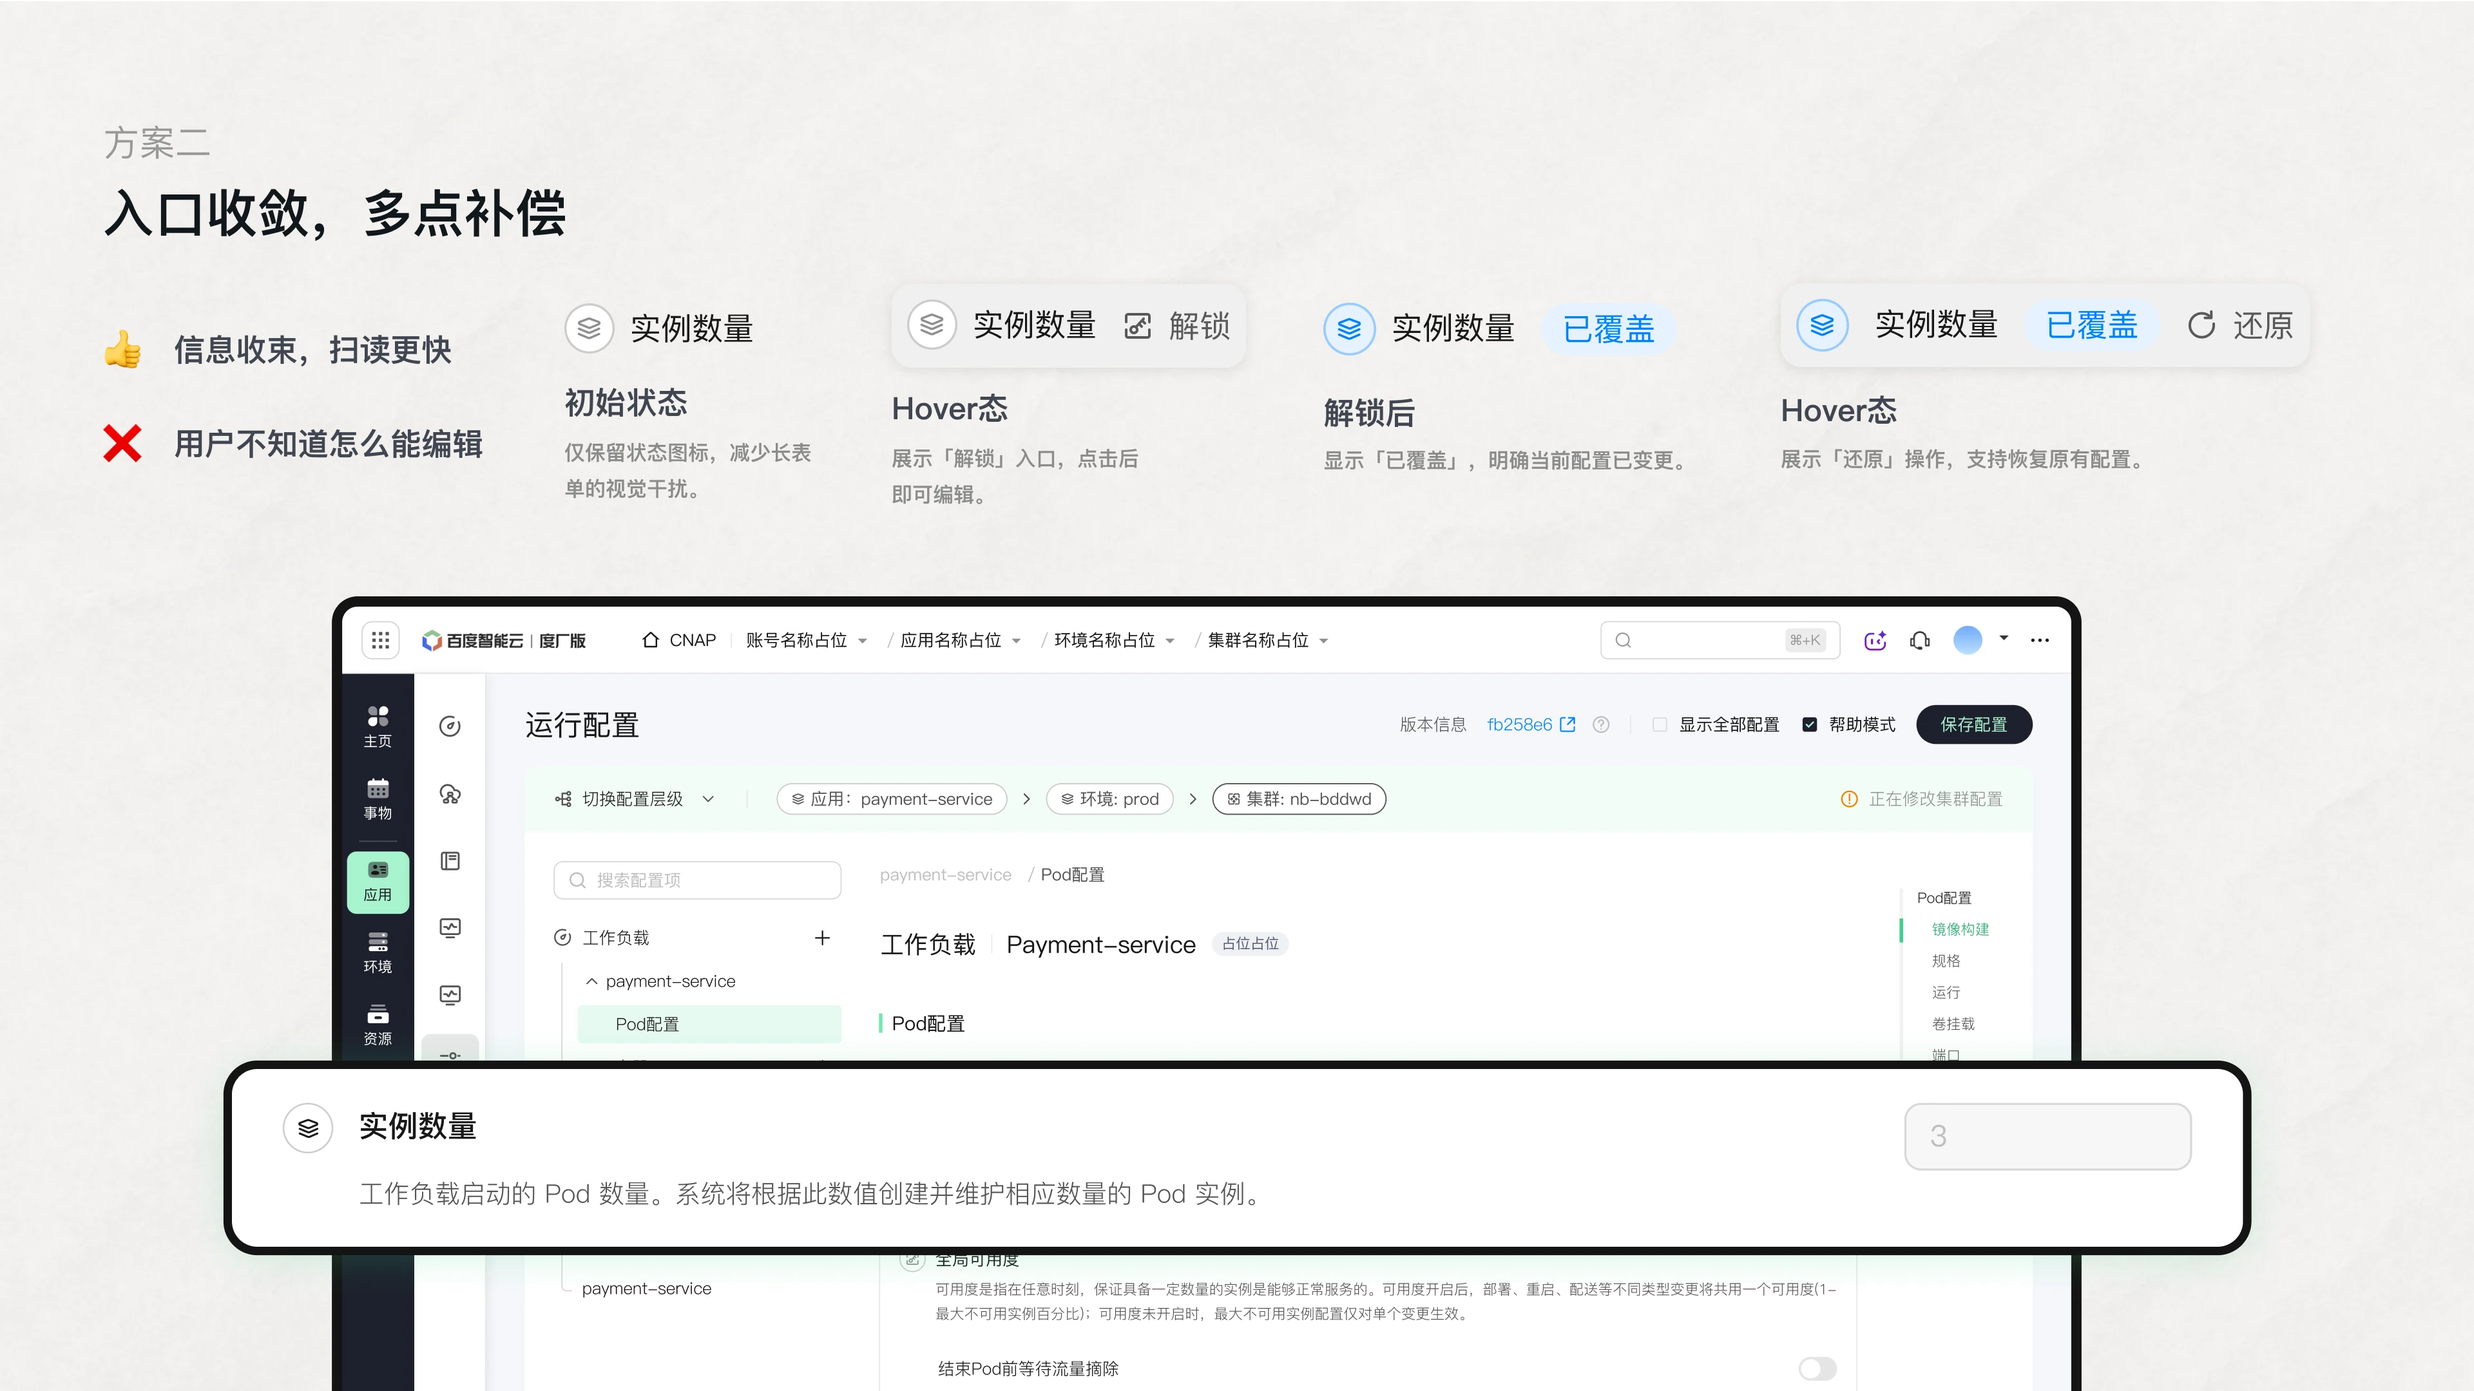
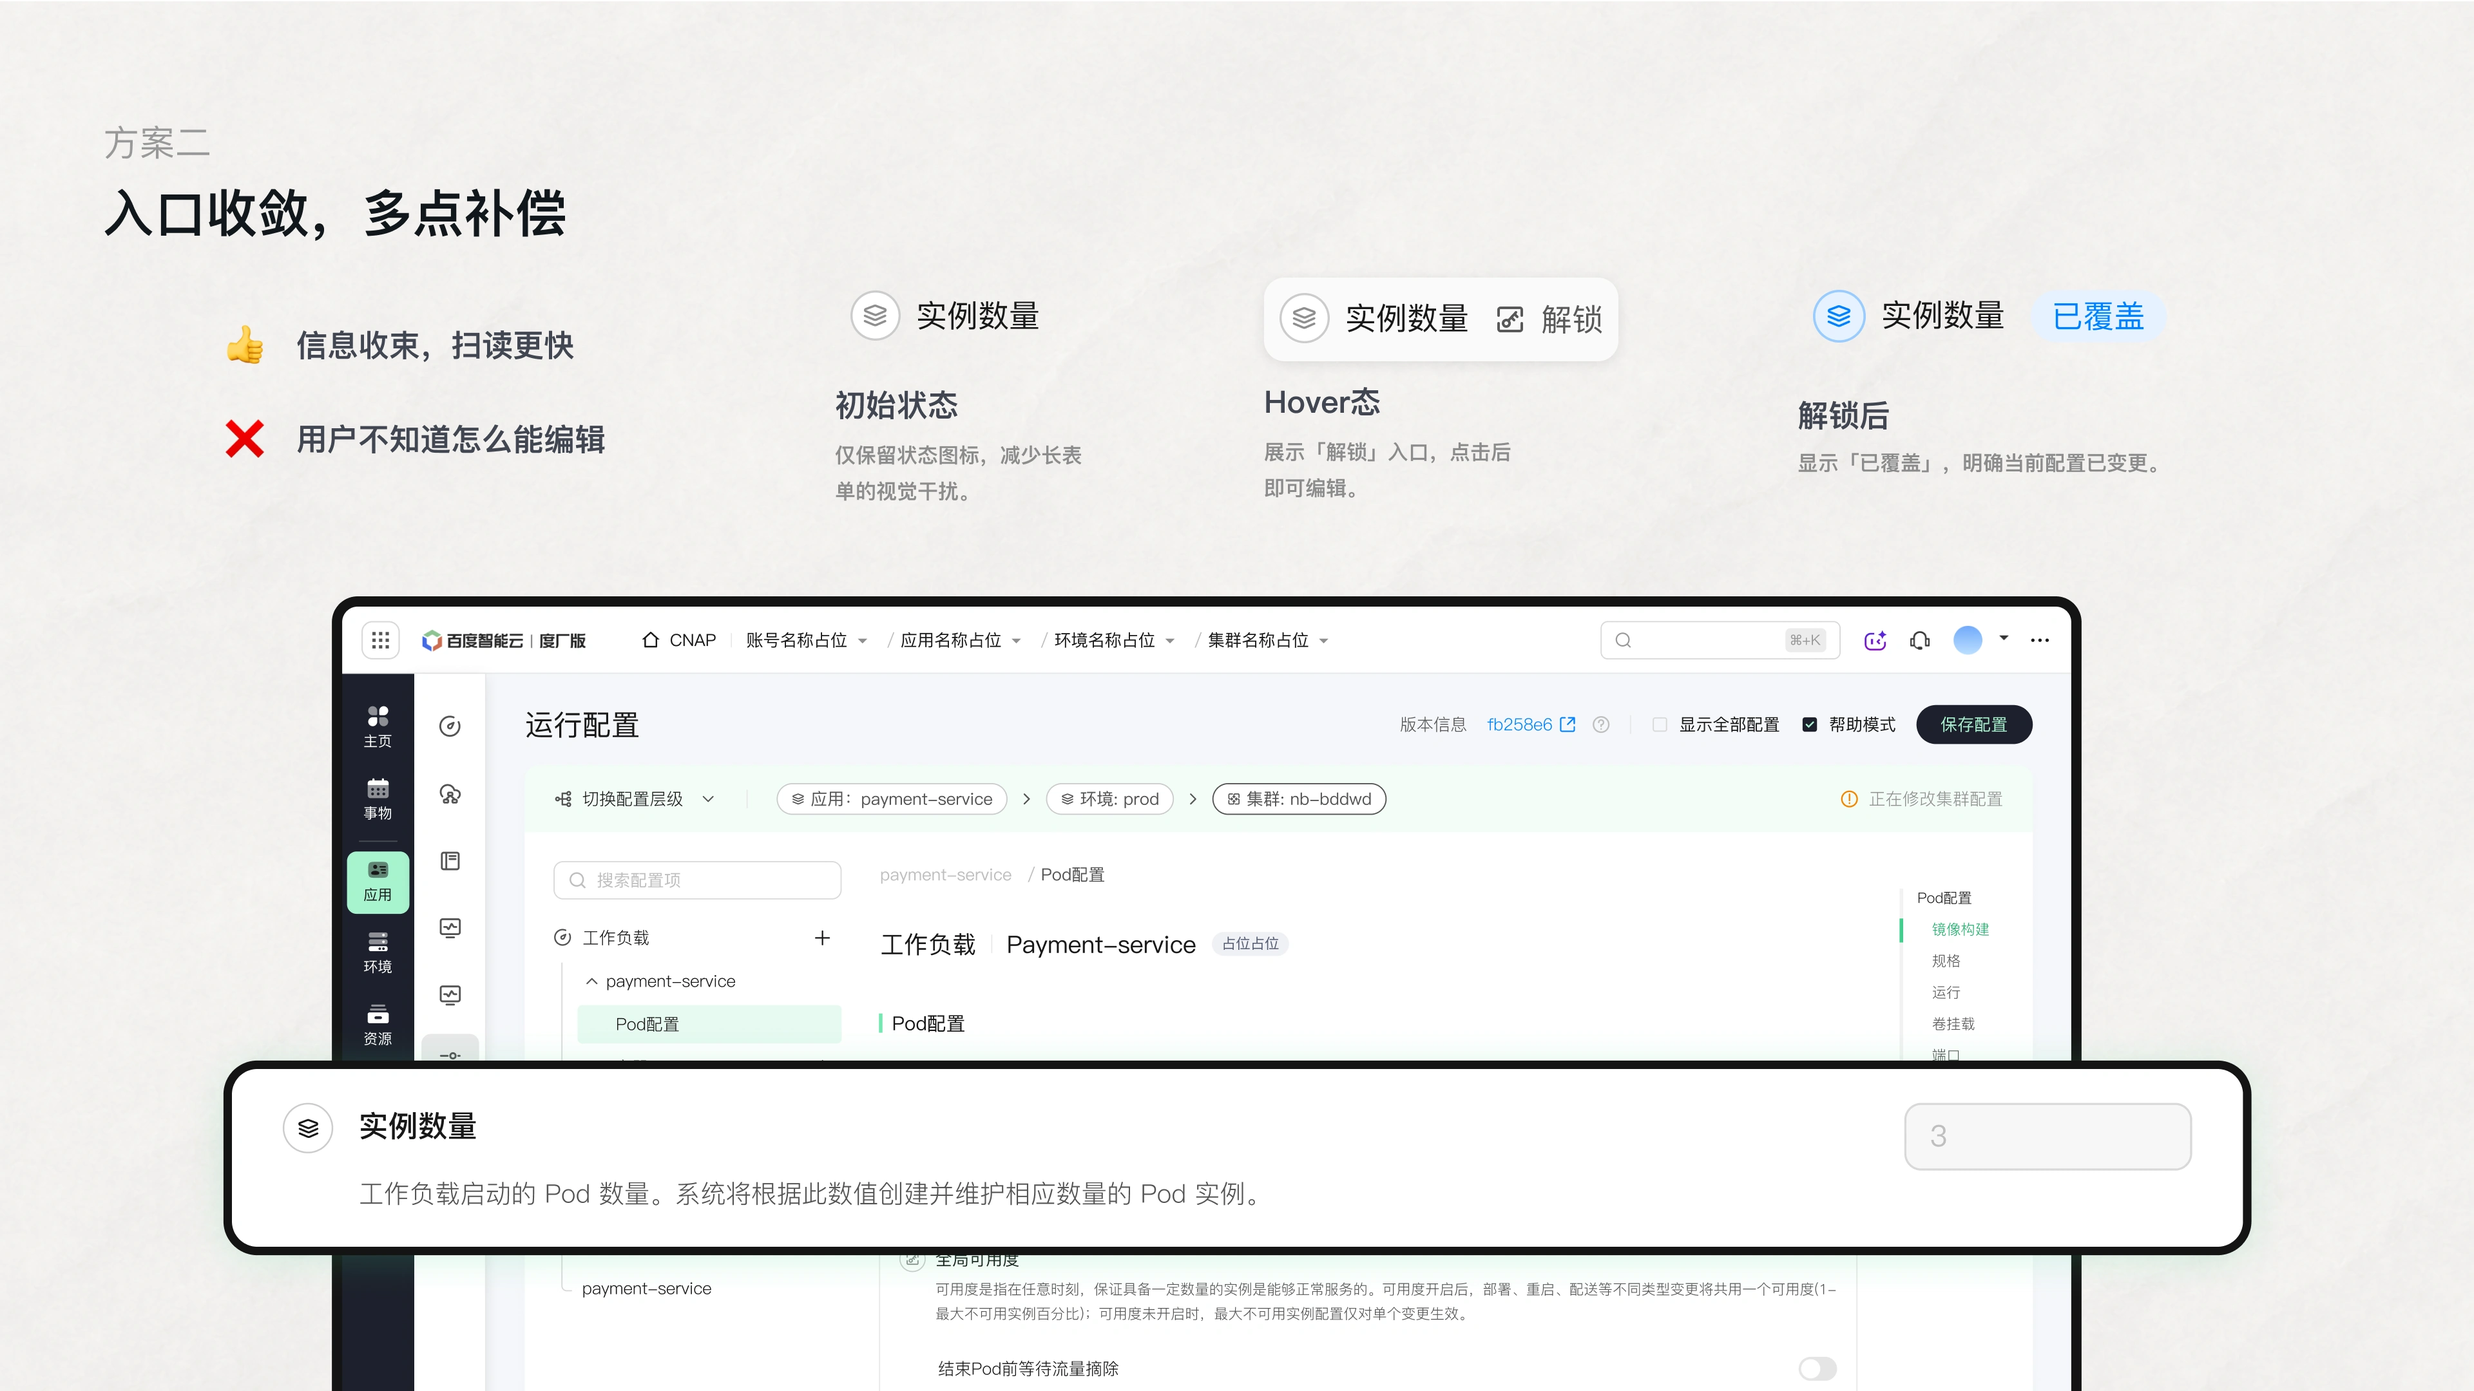
Refine CNAP scheme two interaction preview

diff --git a/styles/cnap-preview.css b/styles/cnap-preview.css
@@ -106,3 +106,41 @@
 @media (prefers-reduced-motion: reduce) {
   .cnap-preview-video { transition: none; }
 }
+
+/* Scheme 2: Figma 2324:1153, canvas 1560.714 × 138. */
+.cnap-live-scheme2 { position: absolute; left: 9.3229167%; top: 76.7592593%; width: 81.3541667%; height: 12.9629630%; z-index: 2; overflow: hidden; background: #fff; border-radius: 1.4% / 14%; }
+.cnap-scheme2-card { position: absolute; inset: 0 auto auto 0; width: 1560.714px; height: 138px; box-sizing: border-box; padding: 26.286px 39.429px; border: 0; border-radius: 0; background: #fff; box-shadow: none; transform-origin: top left; color: #181818; font-family: "PingFang SC", sans-serif; transition: background-color .18s ease; }
+.cnap-scheme2-icon { position: absolute; left: 39.429px; top: 26.286px; width: 40px; height: 40px; box-sizing: border-box; border: 1.232px solid #ccc; border-radius: 29.571px; background: #fff; display: grid; place-items: center; }
+.cnap-scheme2-icon img { position: absolute; }
+.cnap-scheme2-icon .scheme2-overridden { display: none; }
+.cnap-scheme2-copy { position: absolute; left: 99.143px; top: 26.286px; }
+.cnap-scheme2-title { display: flex; align-items: center; gap: 20px; height: 36.143px; }
+.cnap-scheme2-title strong { font-size: 23px; line-height: 36.143px; font-weight: 500; white-space: nowrap; }
+.cnap-scheme2-copy p { margin: 16.429px 0 0; color: #545454; font-size: 19.714px; line-height: 32.857px; font-weight: 400; white-space: nowrap; }
+.cnap-scheme2-tag { display: none; padding: 0 13.436px; height: 33.59px; border-radius: 6.718px; background: #e5f2ff; color: #0080ff; font-size: 20.15px; line-height: 33.59px; }
+.cnap-scheme2-action { display: inline-flex; align-items: center; justify-content: center; gap: 12px; min-width: 84px; height: 44px; padding: 4px; border: 0; border-radius: 6px; color: #595959; background: transparent; font: 400 20px/36px "PingFang SC", sans-serif; opacity: 0; visibility: hidden; cursor: pointer; transition: background-color .15s, box-shadow .15s, opacity .15s; }
+.cnap-scheme2-action .scheme2-restore { display: none; }
+.cnap-scheme2-card input { position: absolute; top: 26.286px; right: 39.429px; box-sizing: border-box; width: 223.429px; height: 52.571px; padding: 9.857px 19.714px; border: 1.643px solid #d9d9d9; border-radius: 13.143px; background: #fff; color: #181818; font: 400 23px/36.143px "PingFang SC",sans-serif; outline: none; appearance: textfield; }
+.cnap-scheme2-card input::-webkit-inner-spin-button { display: none; }
+.cnap-scheme2-card input:disabled { background: #f7f7f7; color: #bfbfbf; opacity: 1; -webkit-text-fill-color: #bfbfbf; }
+.cnap-scheme2-card:is(.is-hovered,:hover) { background: #ededed; }
+.cnap-scheme2-card:is(.is-hovered,:hover,:focus-within) .cnap-scheme2-action { opacity: 1; visibility: visible; }
+.cnap-scheme2-card.is-button-hovered .cnap-scheme2-action, .cnap-scheme2-action:hover { background: #d9d9d9; box-shadow: none; }
+.cnap-scheme2-action:focus-visible, .cnap-scheme2-card input:focus-visible { outline: 2px solid #0080ff; outline-offset: 3px; }
+.cnap-scheme2-card.is-typing input { border-color: #0080ff; box-shadow: 0 0 0 3px #0080ff20; }
+.cnap-scheme2-card.is-covered .cnap-scheme2-icon { border: 1.843px solid #9cf; background: #e5f2ff; }
+.cnap-scheme2-card.is-covered .scheme2-inherited, .cnap-scheme2-card.is-covered .scheme2-unlock { display: none; }
+.cnap-scheme2-card.is-covered .scheme2-overridden, .cnap-scheme2-card.is-covered .scheme2-restore { display: block; }
+.cnap-scheme2-card.is-covered .cnap-scheme2-tag { display: block; }
+@media (prefers-reduced-motion: reduce) { .cnap-scheme2-card, .cnap-scheme2-action { transition: none; } }
+/* Deck artwork rules must not stretch the Figma SVG assets inside the live card. */
+.cnap-scheme2-card img { width: auto; height: auto; max-width: none; margin: 0; padding: 0; background: transparent; }
+
+
+/* Keep the artwork outer frame; animate only within its exact inner bounds. */
+.cnap-scheme2-card.is-selecting input { background: linear-gradient(#b8daff,#b8daff) 19.714px 8px / 16px 36px no-repeat, #fff; }
+.cnap-scheme2-caret { display: none; position: absolute; top: 38px; right: calc(39.429px + 223.429px - 19.714px - var(--typed-width, 15px)); height: 29px; border-left: 2px solid #181818; pointer-events: none; }
+.cnap-scheme2-card.is-typing .cnap-scheme2-caret { display: block; }
+.cnap-scheme2-ripple { position: absolute; z-index: 4; width: 42px; height: 42px; box-sizing: border-box; border: 4px solid #0080ffc7; border-radius: 50%; background: #0080ff1a; box-shadow: 0 0 0 7px #0080ff14; pointer-events: none; }
+.cnap-scheme2-ripple::after { content: ''; position: absolute; inset: 12px; border-radius: 50%; background: #0080ff; }
+@media (prefers-reduced-motion: reduce) { .cnap-scheme2-ripple { display: none; } }

diff --git a/pages/cnap-case.html b/pages/cnap-case.html
@@ -10,8 +10,9 @@
     <link rel="stylesheet" href="../styles/case-deck.css?v=20260910-1" />
     <script src="../scripts/project-navigation.js?v=20261102-zoom-3" defer></script>
     <link rel="stylesheet" href="../styles/responsive-system.css?v=20260905-1" />
-    <link rel="stylesheet" href="../styles/cnap-preview.css?v=23" />
-    <script src="../scripts/cnap-preview.js?v=23" defer></script>
+    <link rel="stylesheet" href="../styles/cnap-preview.css?v=27" />
+    <script src="../scripts/cnap-preview.js?v=24" defer></script>
+    <script src="../scripts/cnap-scheme2.js?v=2" defer></script>
   </head>
   <body class="cnap-case-page case-deck-page">
     <header class="project-nav">
@@ -57,9 +58,30 @@
           </div>
         </div>
         <div class="case-slide-frame cnap-interactive-slide cnap-override-preview-slide" id="override-preview">
-          <img data-src="../assets/cnap-case/page-12-update-20261101.webp?v=20261101-1" alt="CNAP 方案二：通过入口收敛、覆盖状态和恢复反馈，让配置变更更容易发现与理解" data-section-kicker="方案二" data-section-title="入口收敛，多点补偿" width="1920" height="1080" loading="lazy" decoding="async" />
+          <img data-src="../assets/cnap-case/page-12-update-20261101.webp?v=20261102-1" alt="CNAP 方案二：通过入口收敛、覆盖状态和恢复反馈，让配置变更更容易发现与理解" data-section-kicker="方案二" data-section-title="入口收敛，多点补偿" width="1920" height="1080" loading="lazy" decoding="async" />
+          <div class="cnap-live-scheme2" data-scheme2-demo role="group" aria-label="方案二配置覆盖与还原演示">
+            <div class="cnap-scheme2-card">
+              <span class="cnap-scheme2-icon" aria-hidden="true">
+                <img class="scheme2-inherited" src="../assets/cnap-case/scheme2/inherited.svg" alt="" />
+                <img class="scheme2-overridden" src="../assets/cnap-case/scheme2/overridden.svg" alt="" />
+              </span>
+              <div class="cnap-scheme2-copy">
+                <div class="cnap-scheme2-title">
+                  <strong>实例数量</strong><span class="cnap-scheme2-tag">已覆盖</span>
+                  <button class="cnap-scheme2-action" type="button" aria-label="解锁此配置项">
+                    <img class="scheme2-unlock" src="../assets/cnap-case/scheme2/unlock.svg" alt="" />
+                    <img class="scheme2-restore" src="../assets/cnap-case/scheme2/restore.svg" alt="" /><span>解锁</span>
+                  </button>
+                </div>
+                <p>工作负载启动的 Pod 数量。系统将根据此数值创建并维护相应数量的 Pod 实例。</p>
+              </div>
+              <input type="number" min="1" value="3" aria-label="实例数量" disabled />
+              <i class="cnap-scheme2-caret" aria-hidden="true"></i>
+              <span class="cnap-scheme2-ripple" aria-hidden="true" hidden></span>
+            </div>
+          </div>
         </div>
-        <img data-src="../assets/cnap-case/page-13-update-20261101.webp?v=20261101-1" alt="CNAP 交互设计：组件之外，继续打磨页面与流程" data-section-kicker="交互设计" data-section-title="组件之外，继续打磨页面与流程" width="1920" height="1080" loading="lazy" decoding="async" />
+        <img data-src="../assets/cnap-case/page-13-update-20261101.webp?v=20261102-1" alt="CNAP 交互设计：组件之外，继续打磨页面与流程" data-section-kicker="交互设计" data-section-title="组件之外，继续打磨页面与流程" width="1920" height="1080" loading="lazy" decoding="async" />
         <img data-src="../assets/cnap-case/page-14-agent-rules-refresh-20261101.webp?v=20261101-1" alt="CNAP 设计点二：制定规范，快速同步更多页面" data-section-kicker="设计点二" data-section-title="制定规范，快速同步更多页面" width="1920" height="1080" loading="lazy" decoding="async" />
         <img data-src="../assets/cnap-case/page-14-agent-popup-spec.webp?v=20261101-1" alt="弹窗规范成果：沉淀设计规则、补充 Agent 执行约束，并验证生成结果" data-section-kicker="设计成果二｜弹窗规范" data-section-title="更新设计规范，并翻译成 Agent 语言" width="1920" height="1080" loading="lazy" decoding="async" />
         <img data-src="../assets/cnap-case/page-15-agent-popup-layout.webp?v=20261101-1" alt="弹窗布局规范：按场景和复杂度组织弹窗表单布局规则" data-section-kicker="以弹窗规范为例" data-section-title="与 Agent 协作完善布局规范" width="1920" height="1080" loading="lazy" decoding="async" />

diff --git a/scripts/cnap-scheme2.js b/scripts/cnap-scheme2.js
@@ -1,0 +1,88 @@
+(() => {
+  const preview = document.querySelector('[data-scheme2-demo]');
+  if (!preview) return;
+  const card = preview.querySelector('.cnap-scheme2-card');
+  const action = card.querySelector('button');
+  const input = card.querySelector('input');
+  const ripple = card.querySelector('.cnap-scheme2-ripple');
+  const reduced = matchMedia('(prefers-reduced-motion: reduce)');
+  let visible = false, manual = false, covered = false, elapsed = 0, last = 0, phase = -1;
+  const render = (active, hover, buttonHover, value, typing = false) => {
+    covered = active;
+    card.classList.remove('is-selecting');
+    card.classList.toggle('is-covered', active);
+    card.classList.toggle('is-hovered', hover);
+    card.classList.toggle('is-button-hovered', buttonHover);
+    card.classList.toggle('is-typing', typing);
+    card.style.setProperty('--typed-width', `${value.length * 13.8}px`);
+    action.setAttribute('aria-label', active ? '还原继承配置' : '解锁此配置项');
+    action.querySelector('span').textContent = active ? '还原' : '解锁';
+    input.disabled = !active;
+    input.value = value;
+  };
+  const resize = () => {
+    const bounds = preview.getBoundingClientRect();
+    const scale = bounds.width / 1560.714;
+    card.style.transform = `scale(${scale})`;
+    if (scale) card.style.height = `${bounds.height / scale}px`;
+  };
+  const clickCue = target => {
+    if (reduced.matches) return;
+    const bounds = target.getBoundingClientRect();
+    const parent = card.getBoundingClientRect();
+    const scale = parent.width / 1560.714;
+    ripple.style.left = `${(bounds.x + bounds.width / 2 - parent.x) / scale}px`;
+    ripple.style.top = `${(bounds.y + bounds.height / 2 - parent.y) / scale}px`;
+    ripple.hidden = false;
+    ripple.getAnimations().forEach(animation => animation.cancel());
+    const animation = ripple.animate([
+      { transform: 'translate(-50%, -50%) scale(.35)', opacity: 1 },
+      { transform: 'translate(-50%, -50%) scale(1.5)', opacity: 0 },
+    ], { duration: 480, easing: 'ease-out' });
+    animation.onfinish = () => { ripple.hidden = true; };
+  };
+  const interact = () => {
+    if (!manual) {
+      manual = true;
+      render(covered, true, false, input.value);
+    }
+  };
+  preview.addEventListener('pointerenter', interact);
+  preview.addEventListener('focusin', interact);
+  const resume = () => {
+    if (preview.matches(':hover') || preview.contains(document.activeElement)) return;
+    manual = false; elapsed = 0; phase = -1;
+    render(false, false, false, '3');
+  };
+  preview.addEventListener('pointerleave', resume);
+  preview.addEventListener('focusout', () => setTimeout(resume, 0));
+  action.addEventListener('click', () => {
+    manual = true;
+    clickCue(action);
+    render(!covered, true, false, '3');
+    if (covered) input.focus();
+  });
+  const tick = now => {
+    if (last && visible && !manual && !document.hidden && !reduced.matches) elapsed += now - last;
+    last = now;
+    const t = elapsed % 6400;
+    const next = t < 800 ? 0 : t < 1250 ? 1 : t < 1750 ? 2 : t < 2200 ? 3 : t < 2650 ? 4 : t < 2820 ? 5 : t < 2990 ? 6 : t < 3160 ? 7 : t < 4100 ? 8 : t < 4600 ? 9 : t < 5050 ? 10 : 11;
+    if (!manual && next !== phase) {
+      phase = next;
+      if (next === 3 || next === 11) clickCue(action);
+      if (next === 4) clickCue(input);
+      const active = next >= 3 && next <= 10;
+      const hover = next === 1 || next === 2 || next === 9 || next === 10;
+      const value = next >= 5 && next <= 10 ? '9999'.slice(0, Math.min(next - 4, 4)) : '3';
+      render(active, hover, next === 2 || next === 10, value, next >= 5 && next <= 8);
+      card.classList.toggle('is-selecting', next === 4);
+    }
+    requestAnimationFrame(tick);
+  };
+  new ResizeObserver(resize).observe(preview);
+  new IntersectionObserver(([entry]) => { visible = entry.isIntersecting; }).observe(preview);
+  document.addEventListener('visibilitychange', () => { last = 0; });
+  render(false, false, false, '3');
+  resize();
+  requestAnimationFrame(tick);
+})();
